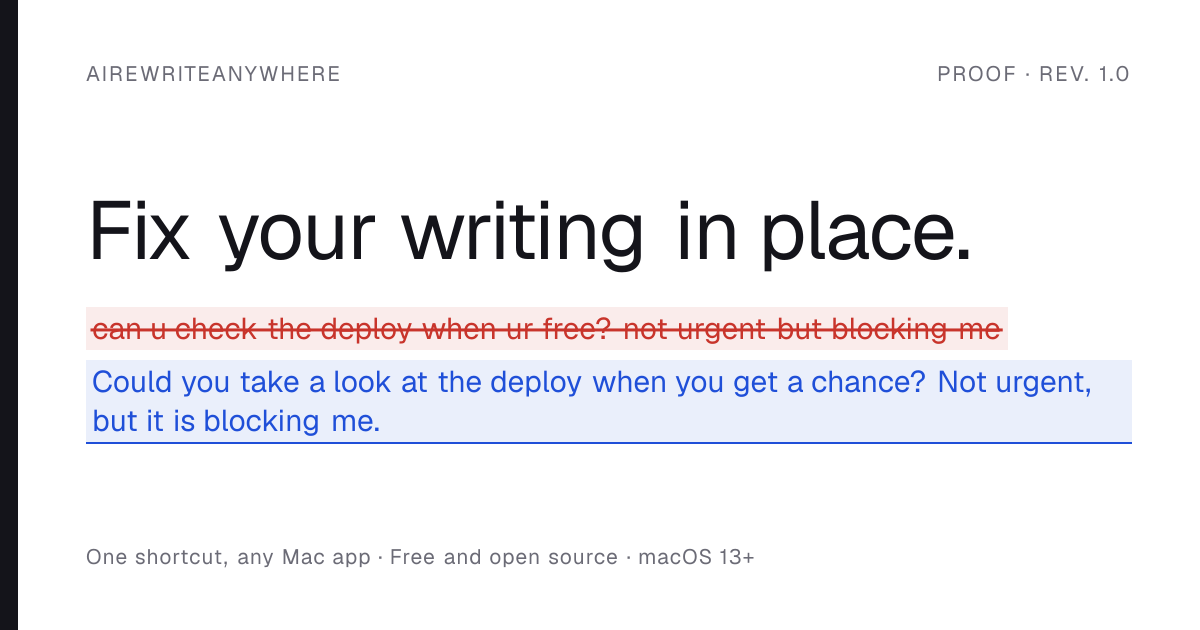
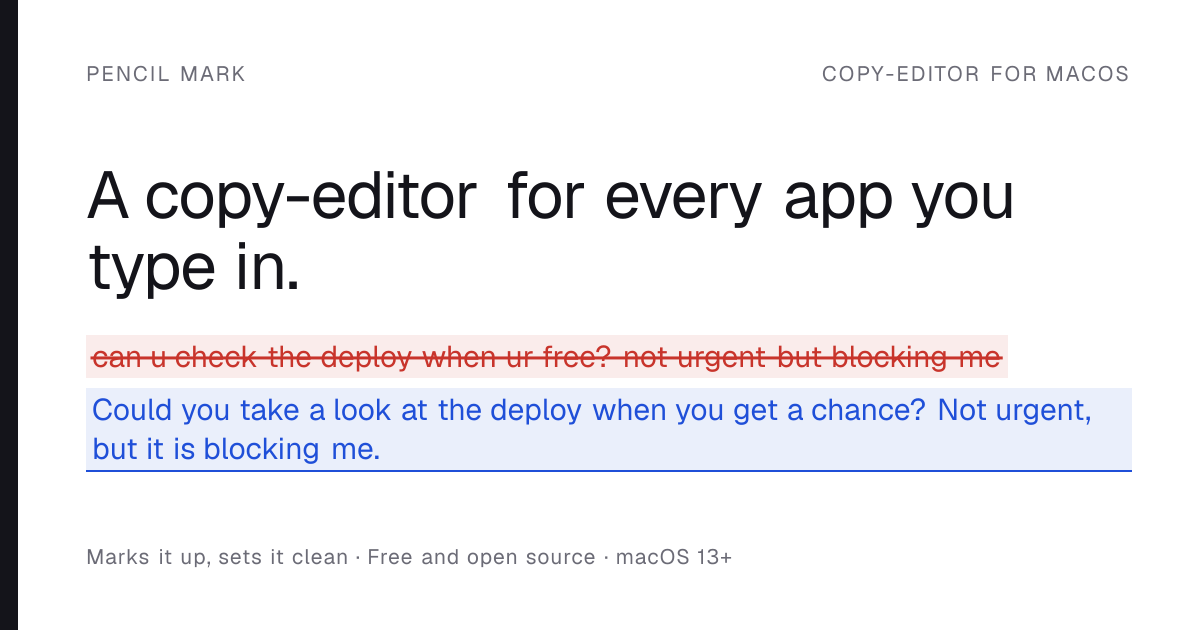
Brand the site and docs around Pencil Mark
The rename changed the identifier but the story stayed generic — the site still
led with "AI writing assistant for macOS", a category rather than a brand.

- Claims a category the name and design already support: a copy-editor for every
  app you type in. Used for the h1, the title tag, OG and Twitter cards, and the
  structured-data description, so search, social and the page all say one thing.
- Copy speaks as the product: "Pencil Mark marks it up and sets it clean",
  "if you can select the text, it can mark it up".
- The colophon now states where the name comes from. A brand that explains its
  own metaphor is easier to remember than one that asserts a benefit.
- READMEs open with what the product is rather than what it does to text, and
  the ASCII device is refreshed to the crossed pencil and brush.
- OG headline dropped from 82px to 66px so the longer line still fits the card.

diff --git a/apps/web/app/page.tsx b/apps/web/app/page.tsx
@@ -1,6 +1,6 @@
 import { ColophonMark } from "@/components/ColophonMark";
 import { RewriteDemo } from "@/components/RewriteDemo";
-import { APPS, DOWNLOAD, FAQ, GITHUB, MODES, NAME } from "@/lib/site";
+import { APPS, DOWNLOAD, FAQ, GITHUB, MODES, NAME, NAME_NOTE } from "@/lib/site";
 
 /*
   Layout: a proof sheet on a desk. One narrow column of prose with a ruled left margin, the way
@@ -41,7 +41,7 @@ function Masthead() {
     <header className="flex items-baseline justify-between gap-6 py-6">
       <span className="flex items-baseline gap-3">
         <span className="font-serif text-xl">{NAME}</span>
-        <span className="folio hidden sm:inline">Proof · rev. 1.0</span>
+        <span className="folio hidden sm:inline">Copy-editor for macOS</span>
       </span>
       <nav className="flex items-center gap-4 font-mono text-[0.7rem] uppercase tracking-[0.12em] sm:gap-6">
         <a href="#install" className="text-muted transition-colors hover:text-ink">
@@ -71,10 +71,10 @@ function Hero() {
             Hanging the red rule off the first line makes the headline read as a corrected line
             rather than a slogan — the page states its thesis in its own visual language.
           */}
-          <h1 className="editorial max-w-[16ch] text-[3rem] sm:text-[4.75rem]">
-            Fix your writing{" "}
+          <h1 className="editorial max-w-[19ch] text-[3rem] sm:text-[4.5rem]">
+            A copy-editor for every app you{" "}
             <span className="relative whitespace-nowrap">
-              <span className="italic">in place</span>
+              <span className="italic">type in</span>
               <svg
                 className="absolute -bottom-1 left-0 w-full"
                 height="7"
@@ -94,9 +94,9 @@ function Hero() {
             .
           </h1>
 
-          <p className="mt-8 max-w-[52ch] text-[1.0625rem] leading-[1.7] text-muted">
-            Select text in any Mac app, press <Chord>⌘⇧R</Chord>, and it is replaced with a cleaner
-            version — in Slack, in a pull request, in an email you are already halfway through. No
+          <p className="mt-8 max-w-[54ch] text-[1.0625rem] leading-[1.7] text-muted">
+            Select any text, press <Chord>⌘⇧R</Chord>, and {NAME} marks it up and sets it clean —
+            in Slack, in a pull request, in an email you are already halfway through. No
             copy-paste, no chat window, no switching apps.
           </p>
 
@@ -129,7 +129,7 @@ function Hero() {
 
 function Modes() {
   return (
-    <Spread folio="Fol. 2" eyebrow="Four marks" title="One keystroke, four ways to correct">
+    <Spread folio="Fol. 2" eyebrow="Four marks" title="One keystroke, four kinds of mark">
       <dl className="divide-y divide-rule border-y border-rule">
         {MODES.map((mode) => (
           <div key={mode.name} className="grid gap-2 py-5 sm:grid-cols-[10rem_1fr] sm:gap-8">
@@ -167,8 +167,8 @@ function Everywhere() {
   return (
     <Spread folio="Fol. 3" eyebrow="Any manuscript" title="Works wherever you already type">
       <p className="max-w-[56ch] text-[1rem] leading-[1.75] text-muted">
-        It reads your selection through the macOS Accessibility API, so it is not built for any one
-        app. If you can select the text, you can correct it.
+        {NAME} reads your selection through the macOS Accessibility API, so it is not built for
+        any one app. If you can select the text, it can mark it up.
       </p>
       {/* Set as a run-on list, the way a colophon lists its sources. */}
       <p className="mt-7 max-w-[60ch] font-mono text-[0.8rem] leading-[2.1] text-muted">
@@ -308,8 +308,9 @@ function Colophon() {
       <span className="flex items-end gap-5">
         {/* The printer's device, set in characters. */}
         <ColophonMark />
-        <span className="pb-1">
-          {NAME} · set in Instrument Serif &amp; IBM Plex · MIT
+        <span className="flex max-w-[42ch] flex-col gap-1.5 pb-1">
+          <span className="not-italic">{NAME_NOTE}</span>
+          <span>{NAME} · set in Instrument Serif &amp; IBM Plex · MIT</span>
         </span>
       </span>
       <span className="flex gap-6">

diff --git a/apps/web/app/layout.tsx b/apps/web/app/layout.tsx
@@ -1,7 +1,7 @@
 import type { Metadata } from "next";
 import { IBM_Plex_Mono, IBM_Plex_Sans, Instrument_Serif } from "next/font/google";
 import { ConsoleMark } from "@/components/ConsoleMark";
-import { FAQ, NAME, SITE_URL } from "@/lib/site";
+import { CATEGORY, FAQ, NAME, SITE_URL } from "@/lib/site";
 import "./globals.css";
 
 /*
@@ -32,11 +32,11 @@ const marks = IBM_Plex_Mono({
 export const metadata: Metadata = {
   metadataBase: new URL(SITE_URL),
   title: {
-    default: `${NAME} — AI writing assistant for macOS that works in every app`,
+    default: `${NAME} — ${CATEGORY}`,
     template: `%s · ${NAME}`,
   },
   description:
-    "Select text in any Mac app and press ⌘⇧R to rewrite it, fix grammar, make it concise, or make it professional. A free, open-source menu-bar app. Your OpenAI key, your Mac, nothing stored.",
+    "Pencil Mark is a free macOS menu-bar app that copy-edits your writing in place. Select text in any app, press ⌘⇧R, and it is rewritten — or fix grammar, make it concise, make it professional. Your OpenAI key, your Mac, nothing stored.",
   keywords: [
     "AI writing assistant for Mac",
     "rewrite text macOS shortcut",
@@ -55,15 +55,15 @@ export const metadata: Metadata = {
     type: "website",
     url: SITE_URL,
     siteName: NAME,
-    title: `${NAME} — rewrite any text, in any Mac app`,
+    title: `${NAME} — ${CATEGORY}`,
     description:
-      "Select text anywhere on your Mac, press a shortcut, and it is replaced with a cleaner version. Free and open source.",
+      "Select any text on your Mac, press a shortcut, and Pencil Mark marks it up and sets it clean. Free and open source.",
   },
   twitter: {
     card: "summary_large_image",
-    title: `${NAME} — rewrite any text, in any Mac app`,
+    title: `${NAME} — ${CATEGORY}`,
     description:
-      "Select text anywhere on your Mac, press a shortcut, and it is replaced with a cleaner version.",
+      "Select any text on your Mac, press a shortcut, and Pencil Mark marks it up and sets it clean.",
   },
   category: "technology",
 };
@@ -89,9 +89,9 @@ const structuredData = {
       offers: { "@type": "Offer", price: "0", priceCurrency: "USD" },
       author: { "@type": "Person", name: "Aditya Jain", url: "https://github.com/Adityazero4" },
       description:
-        "A macOS menu-bar app that rewrites the text you have selected in any application, in place, using a global keyboard shortcut.",
+        "Pencil Mark is a macOS menu-bar app that copy-edits the text you have selected in any application, in place, using a global keyboard shortcut.",
       featureList: [
-        "Rewrite selected text in any macOS app",
+        "Copy-edit selected text in place in any macOS app",
         "Fix grammar, make concise, or make professional",
         "Configurable global keyboard shortcuts",
         "Translates non-English text into English",

diff --git a/apps/web/lib/site.ts b/apps/web/lib/site.ts
@@ -7,8 +7,16 @@ export const SITE_URL =
   "https://pencilmark.vercel.app";
 
 export const NAME = "Pencil Mark";
+
+/** The category the product claims. Everything else on the page supports this one sentence. */
+export const CATEGORY = "A copy-editor for every app you type in";
+
 export const TAGLINE =
-  "Select text in any Mac app, press a shortcut, and it is replaced with a cleaner version.";
+  "Select any text, press a shortcut, and Pencil Mark marks it up and sets it clean.";
+
+/** Why the product is called what it is. Naming the metaphor makes the brand stick. */
+export const NAME_NOTE =
+  "Named for what an editor leaves in the margin: a light mark, a better line.";
 
 export const MODES = [
   {
@@ -45,7 +53,7 @@ export const FAQ = [
   },
   {
     q: "Is it free?",
-    a: "The app is free and open source under the MIT license. You bring your own OpenAI API key and pay OpenAI directly for what you use, which for everyday rewriting is a few cents a month on the default model.",
+    a: "Pencil Mark is free and open source under the MIT license. You bring your own OpenAI API key and pay OpenAI directly for what you use, which for everyday rewriting is a few cents a month on the default model.",
   },
   {
     q: "Where does my text go?",
@@ -53,7 +61,7 @@ export const FAQ = [
   },
   {
     q: "Why does macOS say the app cannot be checked for malware?",
-    a: "Because this build is not yet notarized by Apple, which needs a paid Apple Developer account. The app is open source, so you can read every line or build it yourself. To open it the first time, right-click the app and choose Open, or go to System Settings, then Privacy and Security, and click Open Anyway. You only do this once.",
+    a: "Because Pencil Mark is not yet notarized by Apple, which needs a paid Apple Developer account. The app is open source, so you can read every line or build it yourself. To open it the first time, right-click the app and choose Open, or go to System Settings, then Privacy and Security, and click Open Anyway. You only do this once.",
   },
   {
     q: "Why does it need Accessibility permission?",

diff --git a/apps/web/app/opengraph-image.tsx b/apps/web/app/opengraph-image.tsx
@@ -1,9 +1,9 @@
 import { ImageResponse } from "next/og";
-import { NAME } from "@/lib/site";
+import { CATEGORY, NAME } from "@/lib/site";
 
 export const size = { width: 1200, height: 630 };
 export const contentType = "image/png";
-export const alt = `${NAME} — fix your writing in place`;
+export const alt = `${NAME} — ${CATEGORY}`;
 
 /*
   The card is a proof sheet: the draft struck in red pencil, the correction set in blue beneath.
@@ -38,12 +38,12 @@ export default function OpenGraphImage() {
           }}
         >
           <span>{NAME}</span>
-          <span>Proof · rev. 1.0</span>
+          <span>Copy-editor for macOS</span>
         </div>
 
         <div style={{ display: "flex", flexDirection: "column", gap: 34 }}>
-          <div style={{ display: "flex", fontSize: 82, lineHeight: 1.05, letterSpacing: -1.5 }}>
-            Fix your writing in place.
+          <div style={{ display: "flex", fontSize: 66, lineHeight: 1.08, letterSpacing: -1.2 }}>
+            A copy-editor for every app you type in.
           </div>
 
           {/* The correction itself, set the way the site sets it. */}
@@ -77,7 +77,7 @@ export default function OpenGraphImage() {
         </div>
 
         <div style={{ display: "flex", fontSize: 21, color: "#6b6b76", letterSpacing: 1 }}>
-          One shortcut, any Mac app · Free and open source · macOS 13+
+          Marks it up, sets it clean · Free and open source · macOS 13+
         </div>
       </div>
     ),

diff --git a/README.md b/README.md
@@ -1,6 +1,6 @@
 <div align="center">
 
-<img src="docs/banner.png" alt="Pencil Mark — fix your writing where you wrote it" width="820">
+<img src="docs/banner.png" alt="Pencil Mark — a copy-editor for every app you type in" width="820">
 
 <br>
 
@@ -17,12 +17,16 @@
 
 ---
 
-Select text in **any** Mac app, press `⌘⇧R`, and it is replaced with a cleaner version. No
+**Pencil Mark is a copy-editor that lives in your Mac's menu bar.**
+
+Select any text, press `⌘⇧R`, and it is marked up and set clean where it already sits. No
 copy-paste, no chat window, no switching apps.
 
 It reads your selection through the macOS Accessibility API, so it is not built for any one app.
 Slack, Chrome, Safari, Gmail, Notion, VS Code, Linear, Jira, Notes, Mail — if you can select the
-text, you can rewrite it.
+text, Pencil Mark can mark it up.
+
+*Named for what an editor leaves in the margin: a light mark, a better line.*
 
 | Shortcut | Action | What it does |
 |---|---|---|
@@ -106,8 +110,8 @@ The notarization step is already written into
 adding `APPLE_ID`, `APPLE_TEAM_ID`, `APPLE_APP_PASSWORD`, `APPLE_CERT_P12` and
 `APPLE_CERT_PASSWORD` as repository secrets switches it on with no code change.
 
-The app is open source precisely so you do not have to take an unsigned binary on trust — read it,
-or build it yourself in one command.
+Pencil Mark is open source precisely so you do not have to take an unsigned binary on trust —
+read it, or build it yourself in one command.
 
 ## Known limitations
 
@@ -123,7 +127,7 @@ or build it yourself in one command.
 <details>
 <summary>The mark, in characters</summary>
 
-Generated from the same drawing routine as the app icon by
+A pencil and a brush crossed, generated from the same drawing routine as the app icon by
 [`tools/make-icon.swift`](tools/make-icon.swift), so it can never drift from it. It also prints
 when you run `make app`, and in the browser console on the website.
 

diff --git a/apps/macos/README.md b/apps/macos/README.md
@@ -1,7 +1,7 @@
 # PencilMark
 
-A menu-bar app that rewrites whatever text you have selected — in any macOS app — with one
-keystroke. Select text, press `⌘⇧R`, and the selection is replaced in place by an improved
+Pencil Mark is a copy-editor that lives in your menu bar. It marks up whatever text you have
+selected — in any macOS app — with one keystroke. Select text, press `⌘⇧R`, and the selection is replaced in place by an improved
 version. No browser tab, no copy/paste, no per-app integration.
 
 Works in Slack, Chrome, Safari, Gmail, Notion, VS Code, GitHub, Linear, Jira, Notes, TextEdit,

diff --git a/apps/web/README.md b/apps/web/README.md
@@ -1,6 +1,6 @@
 # Website
 
-The landing page for [PencilMark](../../README.md), live at
+The website for [Pencil Mark](../../README.md), live at
 **[pencilmark.vercel.app](https://pencilmark.vercel.app)**.
 
 Next.js App Router, Tailwind, statically rendered. The only client-side JavaScript is the hero
